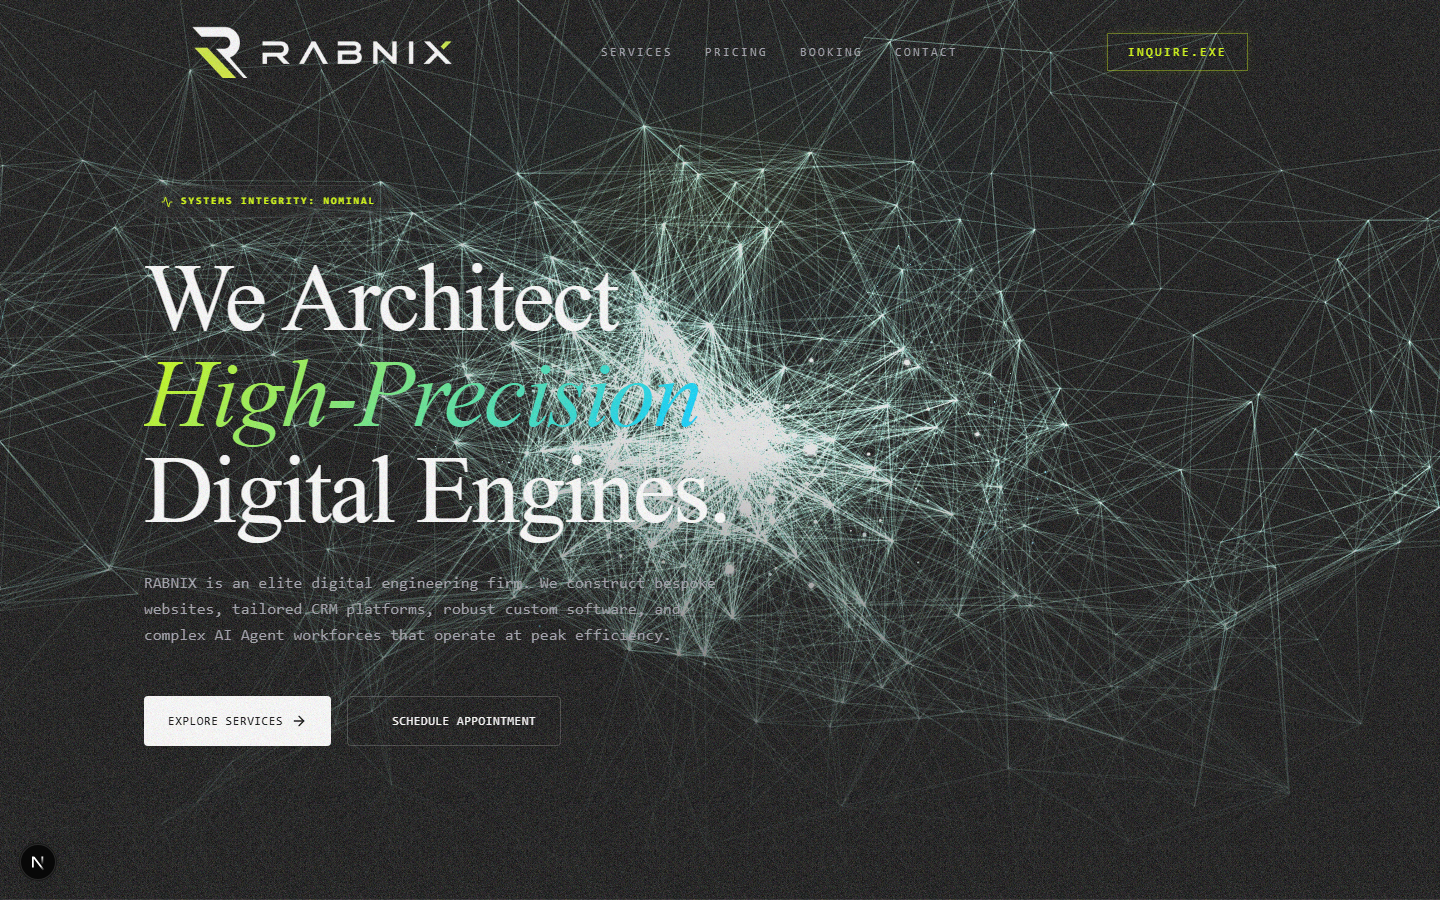
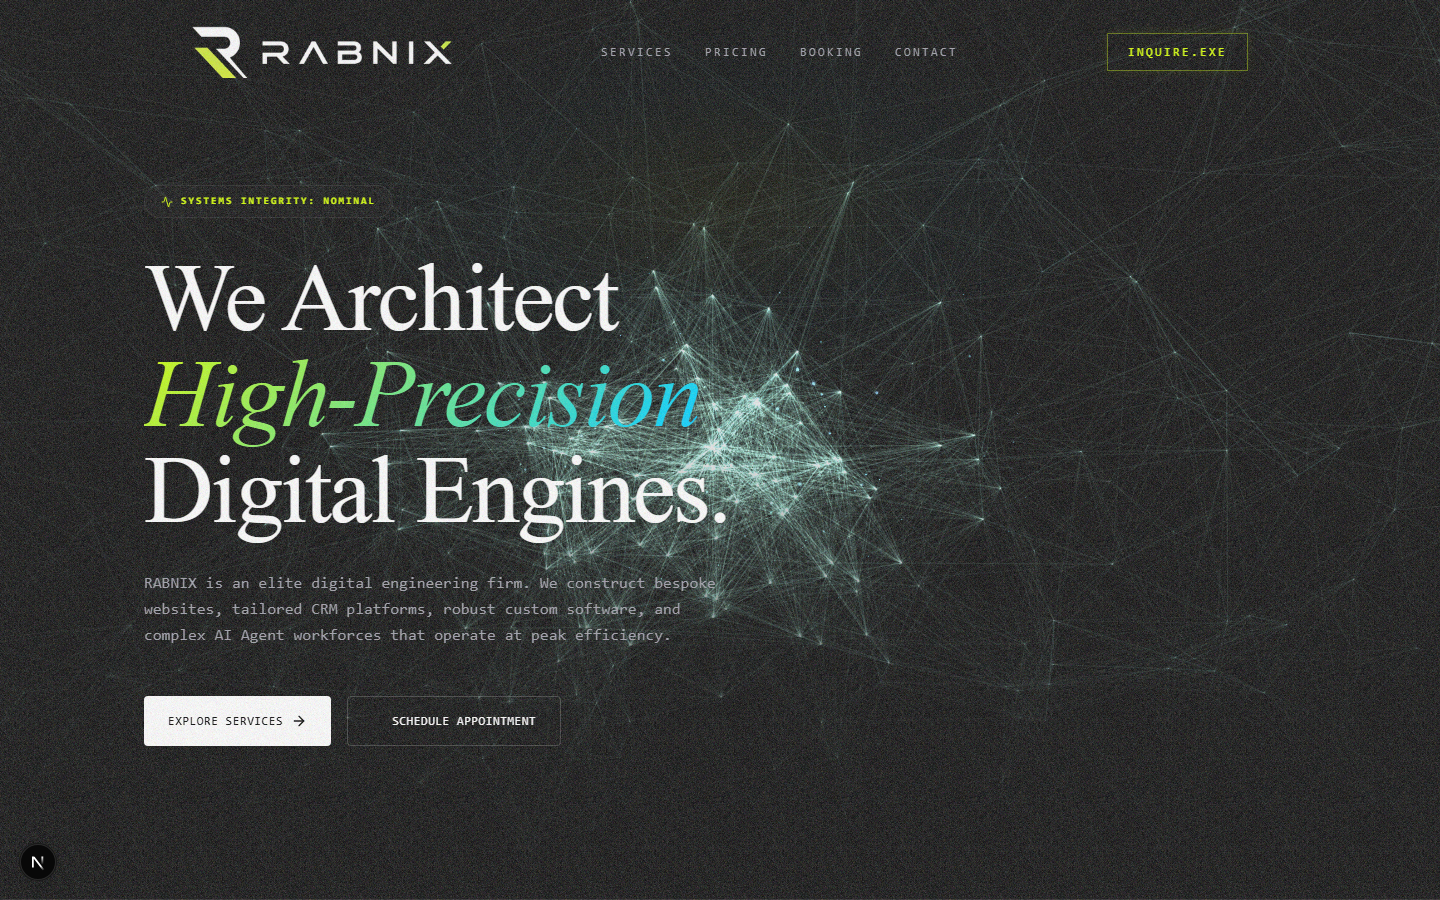
@ fix: reduce center glow intensity — hub nodes, lines, and shader effects dimmed

diff --git a/components/HeroVisual.tsx b/components/HeroVisual.tsx
@@ -72,18 +72,18 @@ export default function HeroVisual() {
       const hue = isHub
         ? 0.42 + Math.random() * 0.08
         : 0.44 + Math.random() * 0.14;
-      const sat = isHub ? 0.5 + Math.random() * 0.3 : 0.3 + Math.random() * 0.4;
+      const sat = isHub ? 0.15 + Math.random() * 0.15 : 0.2 + Math.random() * 0.3;
       const light = isHub
-        ? 0.65 + Math.random() * 0.25
-        : 0.25 + Math.random() * 0.4;
+        ? 0.2 + Math.random() * 0.15
+        : 0.15 + Math.random() * 0.25;
       const color = new THREE.Color().setHSL(hue, sat, light);
       colors[i3] = color.r;
       colors[i3 + 1] = color.g;
       colors[i3 + 2] = color.b;
 
       nodeSizes[i] = isHub
-        ? 0.3 + Math.random() * 0.35
-        : 0.08 + Math.random() * 0.15;
+        ? 0.12 + Math.random() * 0.15
+        : 0.06 + Math.random() * 0.1;
 
       // Floating velocity (very gentle)
       nodeVelocities.push({
@@ -182,12 +182,12 @@ export default function HeroVisual() {
           float alpha = core * 0.9 + glow;
 
           // Dramatic glow boost near mouse cursor
-          vec3 finalColor = vColor + vGlow * vec3(1.0, 1.2, 1.5); // bright cyan-white tint
-          float glowBoost = 1.0 + vGlow * 1.5;
+          vec3 finalColor = vColor + vGlow * vec3(0.3, 0.5, 0.7); // subtle cyan-white tint
+          float glowBoost = 1.0 + vGlow * 0.4;
           alpha *= glowBoost;
 
           // Extra outer glow ring when near cursor
-          float halo = exp(-d * 3.0) * vGlow * 0.8;
+          float halo = exp(-d * 3.0) * vGlow * 0.2;
           alpha += halo;
 
           gl_FragColor = vec4(finalColor, alpha);
@@ -224,7 +224,7 @@ export default function HeroVisual() {
 
           const hue = 0.44 + fade * 0.1;
           const sat = 0.3 + fade * 0.5;
-          const light = 0.15 + fade * 0.5;
+          const light = 0.05 + fade * 0.18;
           const baseColor = new THREE.Color().setHSL(hue, sat, light);
           lineColors.push(baseColor.r, baseColor.g, baseColor.b);
           lineColors.push(baseColor.r, baseColor.g, baseColor.b);
@@ -239,7 +239,7 @@ export default function HeroVisual() {
     const lineMaterial = new THREE.LineBasicMaterial({
       vertexColors: true,
       transparent: true,
-      opacity: 0.55,
+      opacity: 0.30,
       blending: THREE.AdditiveBlending,
       depthWrite: false,
     });
